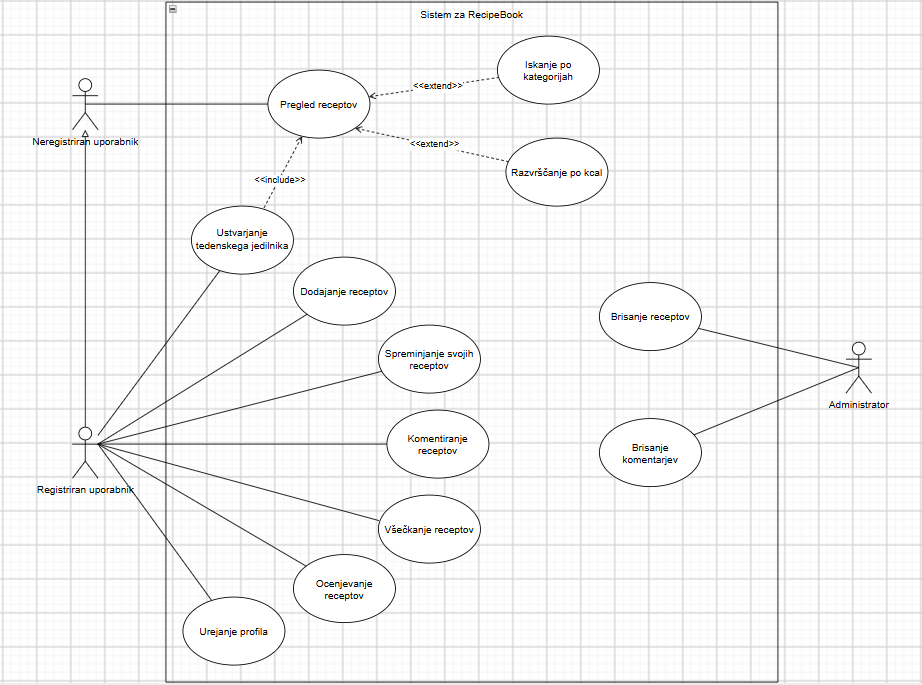
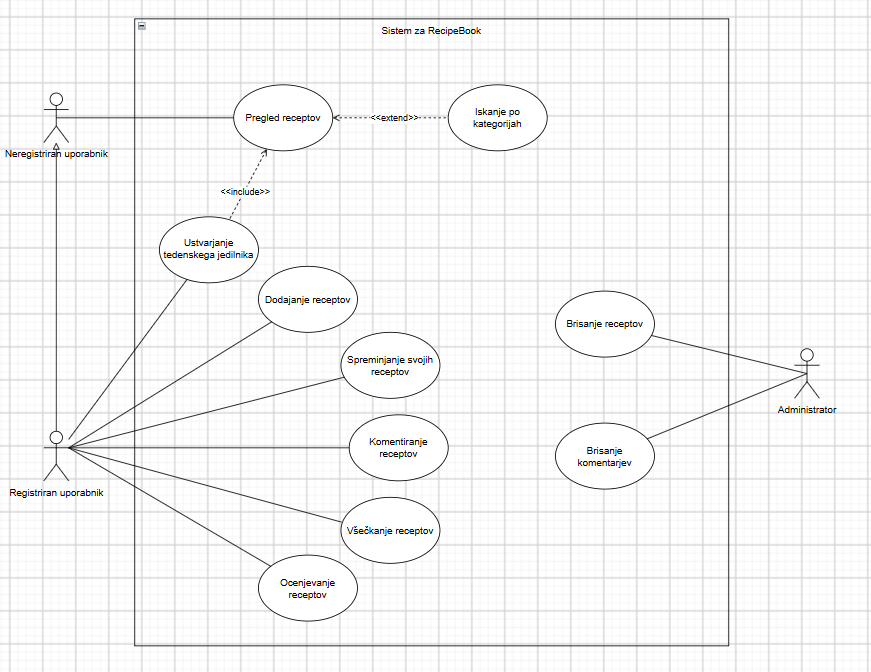
Popravljen DPU

diff --git a/README.md b/README.md
@@ -28,10 +28,20 @@ Obseg rešitve pokriva:
 - Brez zunanjih kulinaričnih integracij: Aplikacija deluje kot samostojen sistem in nima povezav z zunanjimi spletnimi viri, bazami živil za izračun hranilnih vrednosti (kalorij) ali orodji za samodejni uvoz receptov s spleta.
 
 ### Besednjak
-- Recept: Osnovna domenska entiteta, ki predstavlja zapis o jedi ter vsebuje njen naziv, podroben opis priprave in čas, potreben za njeno izvedbo.
-- Naziv recepta: Jedinstveno besedilno ime jedi, ki služi kot primarni identifikator pri iskanju in prepoznavanju recepta.
-- Čas priprave: Število minut, ki so potrebne za celotno pripravo in kuhanje/peko posamezne jedi.
-- Zbirka receptov: Celoten nabor vseh v bazi shranjenih receptov, ki so uporabniku na voljo za pregled, filtriranje in urejanje.
+- **Recept:** Osnovna domenska entiteta, ki predstavlja zapis o jedi ter vsebuje njen naziv, podroben opis priprave in čas, potreben za njeno izvedbo.
+- **Naziv recepta:** Jedinstveno besedilno ime jedi, ki služi kot primarni identifikator pri iskanju in prepoznavanju recepta.
+- **Sestavine:** Seznam živil in njihovih količin, potrebnih za pripravo jedi.
+- **Čas priprave:** Število minut, ki so potrebne za celotno pripravo in kuhanje/peko posamezne jedi.
+- **Zbirka receptov:** Celoten nabor vseh v bazi shranjenih receptov, ki so uporabniku na voljo za pregled, filtriranje in urejanje.
+- **Kategorija recepta:** Skupina, v katero spada recept glede na vrsto obroka, na primer zajtrk, kosilo, večerja ali sladica.
+- **Avtor recepta:** Uporabnik, ki je ustvaril in objavil recept v aplikaciji.
+- **Zbirka receptov:** Nabor vseh receptov, shranjenih v aplikaciji, ki jih uporabniki lahko pregledujejo in iščejo.
+- **Všeček:** Oznaka, s katero uporabnik pokaže, da mu je določen recept všeč.
+- **Ocena recepta:** Število zvezdic od 1 do 5, s katerimi uporabnik izrazi svoje mnenje o receptu.
+- **Komentar:** Besedilo, ki ga uporabnik objavi pod receptom, da deli svoje mnenje, izkušnjo ali nasvet.
+- **Tedenski jedilnik:** Načrt obrokov za posamezne dni v tednu, v katerega uporabnik dodaja izbrane recepte.
+- **Obrok:** Posamezen del dnevnega prehranjevanja, na primer zajtrk, kosilo ali večerja.
+- **Administrator:** Uporabnik s posebnimi pravicami, ki lahko moderira in odstranjuje neprimerne recepte ter komentarje.
 
 
 ## 2. Uporabljene tehnologije
